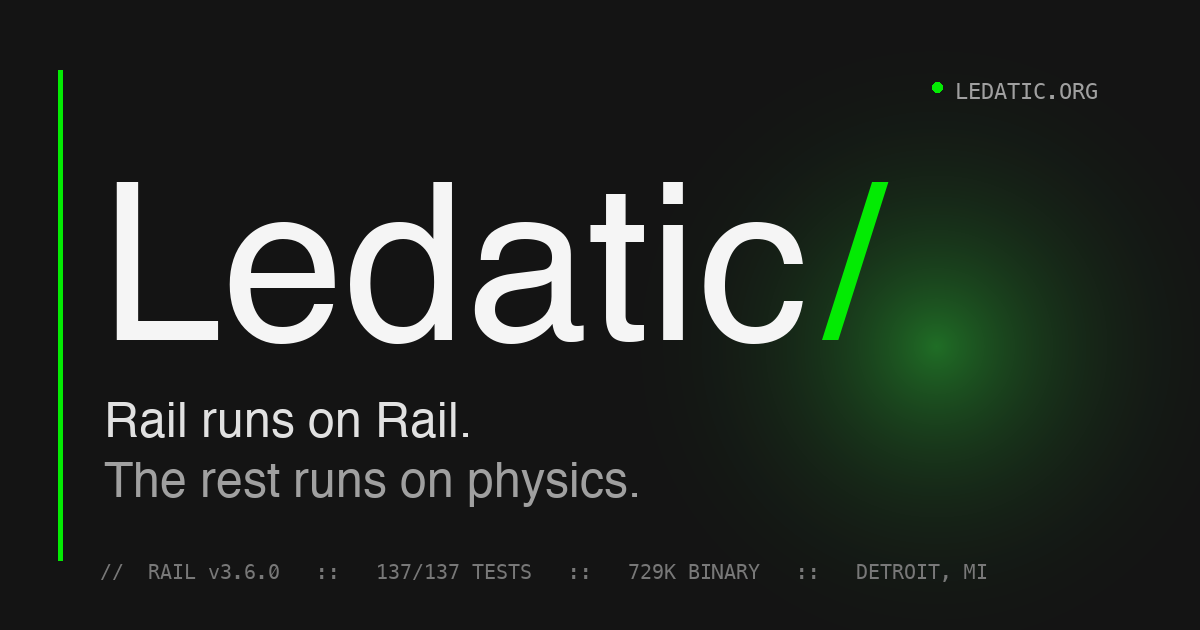
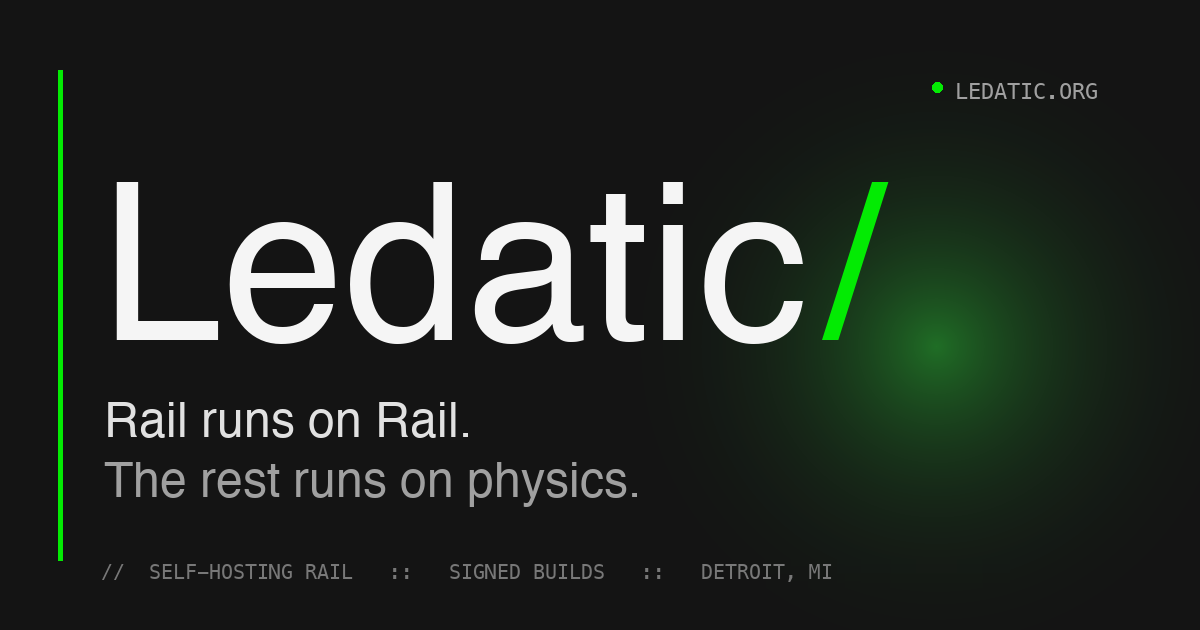
Site fixes: Rail example links, share image strip, fleet is three nodes
/rail/docs/examples/ linked its 22 examples as examples/x.html from inside examples/, so
every link 404d (generator fixed in tools/build_rail_docs.sh, index patched to match).
og.png's strip read "RAIL v3.6.0 :: 137/137 TESTS" five releases on; it now carries no
version or count, so it cannot rot. /fleet described four nodes; the Studio was sold
2026-10-13 and the snapshot lists three, so the cards match it again (the page refuses
to light any chip when the counts differ).

Claude-Session: https://claude.ai/code/session_01Bxz5wGKNEdMh2225kLDuFi

diff --git a/rail/docs/examples/index.html b/rail/docs/examples/index.html
@@ -49,28 +49,28 @@ main hr { border:none; border-top:1px solid #222; margin:2rem 0; }
 <h1>Rail Examples</h1>
 <p>Twenty-two runnable programs, each verified end-to-end. Pick one and read the source — that is the fastest way to learn Rail.</p>
 <ul>
-  <li><a href="examples/apollo2_blink.html">apollo2_blink — GPIO toggle on a real chip</a> — <code>apollo2_blink</code></li>
-  <li><a href="examples/calculator.html">calculator — expression evaluator with ADTs</a> — <code>calculator</code></li>
-  <li><a href="examples/closures.html">closures — lambdas and higher-order functions</a> — <code>closures</code></li>
-  <li><a href="examples/concurrency.html">concurrency — fibers and channels</a> — <code>concurrency</code></li>
-  <li><a href="examples/error_test.html">error_test — what a Rail error looks like</a> — <code>error_test</code></li>
-  <li><a href="examples/fibonacci.html">fibonacci — recursion, range, map</a> — <code>fibonacci</code></li>
-  <li><a href="examples/file_processor.html">file_processor — read, write, transform files</a> — <code>file_processor</code></li>
-  <li><a href="examples/fizzbuzz.html">fizzbuzz — the classic interview question</a> — <code>fizzbuzz</code></li>
-  <li><a href="examples/hello.html">hello — first Rail program</a> — <code>hello</code></li>
-  <li><a href="examples/lists.html">lists — cons, map, fold, filter, range</a> — <code>lists</code></li>
-  <li><a href="examples/m4_fib_print.html">m4_fib_print — bare-metal Cortex-M4</a> — <code>m4_fib_print</code></li>
-  <li><a href="examples/m4_uart_hello.html">m4_uart_hello — "Hi!" over UART on Cortex-M4</a> — <code>m4_uart_hello</code></li>
-  <li><a href="examples/pattern_matching.html">pattern_matching — ADTs and `match`</a> — <code>pattern_matching</code></li>
-  <li><a href="examples/pipes.html">pipes — the `|>` operator</a> — <code>pipes</code></li>
-  <li><a href="examples/quicksort.html">quicksort — functional quicksort on lists</a> — <code>quicksort</code></li>
-  <li><a href="examples/string_processing.html">string_processing — split, join, reverse, append, shell</a> — <code>string_processing</code></li>
-  <li><a href="examples/tco_test.html">tco_test — tail call optimization</a> — <code>tco_test</code></li>
-  <li><a href="examples/wasm_adt.html">wasm/adt — ADTs and pattern matching in WebAssembly</a> — <code>wasm_adt</code></li>
-  <li><a href="examples/wasm_closure.html">wasm/closure — captured locals in WASM</a> — <code>wasm_closure</code></li>
-  <li><a href="examples/wasm_fib.html">wasm/fib — recursive Fibonacci in WebAssembly</a> — <code>wasm_fib</code></li>
-  <li><a href="examples/wasm_hello.html">wasm/hello — Rail to WebAssembly</a> — <code>wasm_hello</code></li>
-  <li><a href="examples/wasm_loop.html">wasm/loop — GC stress test in 1 MB heap</a> — <code>wasm_loop</code></li>
+  <li><a href="apollo2_blink.html">apollo2_blink — GPIO toggle on a real chip</a> — <code>apollo2_blink</code></li>
+  <li><a href="calculator.html">calculator — expression evaluator with ADTs</a> — <code>calculator</code></li>
+  <li><a href="closures.html">closures — lambdas and higher-order functions</a> — <code>closures</code></li>
+  <li><a href="concurrency.html">concurrency — fibers and channels</a> — <code>concurrency</code></li>
+  <li><a href="error_test.html">error_test — what a Rail error looks like</a> — <code>error_test</code></li>
+  <li><a href="fibonacci.html">fibonacci — recursion, range, map</a> — <code>fibonacci</code></li>
+  <li><a href="file_processor.html">file_processor — read, write, transform files</a> — <code>file_processor</code></li>
+  <li><a href="fizzbuzz.html">fizzbuzz — the classic interview question</a> — <code>fizzbuzz</code></li>
+  <li><a href="hello.html">hello — first Rail program</a> — <code>hello</code></li>
+  <li><a href="lists.html">lists — cons, map, fold, filter, range</a> — <code>lists</code></li>
+  <li><a href="m4_fib_print.html">m4_fib_print — bare-metal Cortex-M4</a> — <code>m4_fib_print</code></li>
+  <li><a href="m4_uart_hello.html">m4_uart_hello — "Hi!" over UART on Cortex-M4</a> — <code>m4_uart_hello</code></li>
+  <li><a href="pattern_matching.html">pattern_matching — ADTs and `match`</a> — <code>pattern_matching</code></li>
+  <li><a href="pipes.html">pipes — the `|>` operator</a> — <code>pipes</code></li>
+  <li><a href="quicksort.html">quicksort — functional quicksort on lists</a> — <code>quicksort</code></li>
+  <li><a href="string_processing.html">string_processing — split, join, reverse, append, shell</a> — <code>string_processing</code></li>
+  <li><a href="tco_test.html">tco_test — tail call optimization</a> — <code>tco_test</code></li>
+  <li><a href="wasm_adt.html">wasm/adt — ADTs and pattern matching in WebAssembly</a> — <code>wasm_adt</code></li>
+  <li><a href="wasm_closure.html">wasm/closure — captured locals in WASM</a> — <code>wasm_closure</code></li>
+  <li><a href="wasm_fib.html">wasm/fib — recursive Fibonacci in WebAssembly</a> — <code>wasm_fib</code></li>
+  <li><a href="wasm_hello.html">wasm/hello — Rail to WebAssembly</a> — <code>wasm_hello</code></li>
+  <li><a href="wasm_loop.html">wasm/loop — GC stress test in 1 MB heap</a> — <code>wasm_loop</code></li>
 </ul>
 </main>
 <div class="docfooter">

diff --git a/fleet.html b/fleet.html
@@ -3,19 +3,19 @@
 <head>
 <meta charset="utf-8" />
 <meta name="viewport" content="width=device-width,initial-scale=1" />
-<meta name="description" content="Four independent nodes — three on a Thunderbolt star, one at the edge — answering the same HTTP control plane. No tmux. No ssh fan-out. One surface, shared state.">
+<meta name="description" content="Three independent nodes, two on a Thunderbolt link and one at the edge, answering the same HTTP control plane. No tmux. No ssh fan-out. One surface, shared state.">
 <!-- og:start -->
 <meta property="og:type" content="website">
 <meta property="og:url" content="https://ledatic.org/fleet">
 <meta property="og:title" content="Fleet — Ledatic">
-<meta property="og:description" content="Four independent nodes — three on a Thunderbolt star, one at the edge — answering the same HTTP control plane. No tmux. No ssh fan-out. One surface, shared state.">
+<meta property="og:description" content="Three independent nodes, two on a Thunderbolt link and one at the edge, answering the same HTTP control plane. No tmux. No ssh fan-out. One surface, shared state.">
 <meta property="og:image" content="https://ledatic.org/og.png">
 <meta property="og:image:width" content="1200">
 <meta property="og:image:height" content="630">
 <meta property="og:site_name" content="Ledatic">
 <meta name="twitter:card" content="summary_large_image">
 <meta name="twitter:title" content="Fleet — Ledatic">
-<meta name="twitter:description" content="Four independent nodes — three on a Thunderbolt star, one at the edge — answering the same HTTP control plane. No tmux. No ssh fan-out. One surface, shared state.">
+<meta name="twitter:description" content="Three independent nodes, two on a Thunderbolt link and one at the edge, answering the same HTTP control plane. No tmux. No ssh fan-out. One surface, shared state.">
 <meta name="twitter:image" content="https://ledatic.org/og.png">
 <!-- og:end -->
 <link rel="canonical" href="https://ledatic.org/fleet">
@@ -144,10 +144,10 @@
   <div class="wrap wrap-narrow fade-up">
     <span class="eyebrow">Infrastructure</span>
     <h1 class="hero-title">Fleet</h1>
-    <p class="lead">Four surfaces. One witnessed snapshot.</p>
+    <p class="lead">Three surfaces. One witnessed snapshot.</p>
     <p class="body">
-      Four nodes answer one HTTP control plane &mdash; three on a Thunderbolt
-      star, one at the edge. This page never reaches them. It reads the one
+      Three nodes answer one HTTP control plane: two on a Thunderbolt link,
+      one at the edge. This page never reaches them. It reads the one
       snapshot the fleet publishes, co-signed by an independent witness at a
       pulse, and tells you exactly how old that record is. A chip only earns
       a state after this page has read a fresh snapshot; what can&rsquo;t be
@@ -215,22 +215,15 @@
         <span data-state="unknown" data-sentinel data-fresh-pulses="90" data-node-chip>checking&hellip;</span>
       </div>
       <div class="node-card">
-        <span class="role">Reasoning</span>
-        <h3>Node 02</h3>
-        <p class="specs">Apple silicon &middot; workstation class</p>
-        <p>Large-model reasoning. Dedicated Thunderbolt link to the hub, measured at 9.16 Gb/s.</p>
-        <span data-state="unknown" data-sentinel data-fresh-pulses="90" data-node-chip>checking&hellip;</span>
-      </div>
-      <div class="node-card">
         <span class="role">Orchestrator</span>
-        <h3>Node 03</h3>
+        <h3>Node 02</h3>
         <p class="specs">Apple silicon &middot; laptop class</p>
-        <p>Spoke on the Thunderbolt star. Hits the fleet HTTP surface over the mesh.</p>
+        <p>The other end of the Thunderbolt link. Hits the fleet HTTP surface over the mesh.</p>
         <span data-state="unknown" data-sentinel data-fresh-pulses="90" data-node-chip>checking&hellip;</span>
       </div>
       <div class="node-card">
         <span class="role">Control plane</span>
-        <h3>Node 04</h3>
+        <h3>Node 03</h3>
         <p class="specs">ARM64 Linux &middot; SBC class</p>
         <p>Edge observatory. Fleet control-plane node. Reachable over the private mesh.</p>
         <span data-state="unknown" data-sentinel data-fresh-pulses="90" data-node-chip>checking&hellip;</span>
@@ -276,8 +269,8 @@
     <h2>One HTTP surface.</h2>
     <p class="body">
       Every node answers the same small HTTP surface: report health, run a
-      whitelisted command, queue an async job &mdash; pure Rail on three of
-      the four. No tmux. No ssh fan-out. Shared state is file-based, so a
+      whitelisted command, queue an async job &mdash; pure Rail on both
+      Macs. No tmux. No ssh fan-out. Shared state is file-based, so a
       binary swap is a drop-in upgrade.
     </p>
     <p class="body" style="margin-top: 1rem;">
